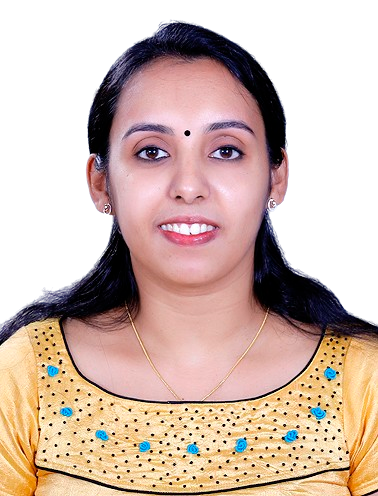
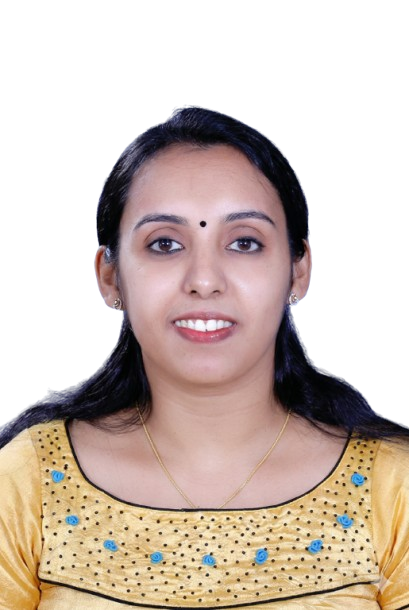
Added homepage UI for IEEE SB MBITS

diff --git a/gallery.html b/gallery.html
@@ -34,54 +34,67 @@
                 Capturing moments of innovation, leadership, and community at IEEE MBITS.
             </p>
             
-            <div class="gallery-grid" style="display: grid; grid-template-columns: repeat(auto-fill, minmax(300px, 1fr)); gap: 1.5rem; padding: 1rem;">
-                <div class="gallery-item brutal-card" style="background: #fff; padding: 0.5rem;">
-                    <div style="aspect-ratio: 1; overflow: hidden; border: 4px solid #000;">
-                        <img src="events/Signal/sps1.heic" alt="Signal 2.0" style="width: 100%; height: 100%; object-fit: cover;" onerror="this.src='https://placehold.co/600x600/ffb1d9/000000?text=Activity'">
-                    </div>
-                </div>
+            <style>
+                .masonry-grid {
+                    columns: 3 300px;
+                    column-gap: 1.5rem;
+                    padding: 1rem;
+                }
+                .gallery-item {
+                    display: inline-block;
+                    width: 100%;
+                    margin-bottom: 1.5rem;
+                    break-inside: avoid;
+                    transition: transform 0.3s ease;
+                }
+                .gallery-item:hover {
+                    transform: scale(1.02) rotate(1deg);
+                    z-index: 10;
+                }
+                .gallery-img-container {
+                    border: 4px solid #000;
+                    background: #fff;
+                    line-height: 0;
+                }
+                .gallery-img-container img {
+                    width: 100%;
+                    height: auto;
+                    display: block;
+                }
+                @media (max-width: 768px) {
+                    .masonry-grid {
+                        columns: 2 200px;
+                    }
+                }
+                @media (max-width: 480px) {
+                    .masonry-grid {
+                        columns: 1;
+                    }
+                }
+            </style>
 
-                <div class="gallery-item brutal-card" style="background: #fff; padding: 0.5rem;">
-                    <div style="aspect-ratio: 1; overflow: hidden; border: 4px solid #000;">
-                        <img src="events/Yess nit Calicut .jpg" alt="IEEE YESS 25" style="width: 100%; height: 100%; object-fit: cover;" onerror="this.src='https://placehold.co/600x600/ccff00/000000?text=Activity'">
-                    </div>
-                </div>
-
-                <div class="gallery-item brutal-card" style="background: #fff; padding: 0.5rem;">
-                    <div style="aspect-ratio: 1; overflow: hidden; border: 4px solid #000;">
-                        <img src="events/SIH.jpg" alt="SIH 2025" style="width: 100%; height: 100%; object-fit: cover;" onerror="this.src='https://placehold.co/600x600/a3c4ff/000000?text=Activity'">
-                    </div>
-                </div>
-
-                <div class="gallery-item brutal-card" style="background: #fff; padding: 0.5rem;">
-                    <div style="aspect-ratio: 1; overflow: hidden; border: 4px solid #000;">
-                        <img src="events/leet.jpg" alt="DSA Training" style="width: 100%; height: 100%; object-fit: cover;" onerror="this.src='https://placehold.co/600x600/ffde59/000000?text=Activity'">
-                    </div>
-                </div>
-
-                <div class="gallery-item brutal-card" style="background: #fff; padding: 0.5rem;">
-                    <div style="aspect-ratio: 1; overflow: hidden; border: 4px solid #000;">
-                        <img src="events/MDC.jpg" alt="MDC" style="width: 100%; height: 100%; object-fit: cover;" onerror="this.src='https://placehold.co/600x450/ff6b35/000000?text=Activity'">
-                    </div>
-                </div>
-
-                <div class="gallery-item brutal-card" style="background: #fff; padding: 0.5rem;">
-                    <div style="aspect-ratio: 1; overflow: hidden; border: 4px solid #000;">
-                        <img src="events/hack.jpg" alt="Hackathon" style="width: 100%; height: 100%; object-fit: cover;" onerror="this.src='https://placehold.co/600x600/e6d5ff/000000?text=Activity'">
-                    </div>
-                </div>
-
-                <div class="gallery-item brutal-card" style="background: #fff; padding: 0.5rem;">
-                    <div style="aspect-ratio: 1; overflow: hidden; border: 4px solid #000;">
-                        <img src="events/kcbm.jpg" alt="KCBM" style="width: 100%; height: 100%; object-fit: cover;" onerror="this.src='https://placehold.co/600x600/ffb1d9/000000?text=Activity'">
-                    </div>
-                </div>
-
-                <div class="gallery-item brutal-card" style="background: #fff; padding: 0.5rem;">
-                    <div style="aspect-ratio: 1; overflow: hidden; border: 4px solid #000;">
-                        <img src="events/wieevent.jpg" alt="WIE Event" style="width: 100%; height: 100%; object-fit: cover;" onerror="this.src='https://placehold.co/600x600/ccff00/000000?text=Activity'">
-                    </div>
-                </div>
+            <div class="masonry-grid">
+                <!-- All 23 images from /gallery folder -->
+                <div class="gallery-item brutal-card"><div class="gallery-img-container"><img src="gallery/1.jpg" alt="1.jpg" loading="eager"></div></div>
+                <div class="gallery-item brutal-card"><div class="gallery-img-container"><img src="gallery/1D8A3893.jpg" alt="1D8A3893.jpg" loading="lazy"></div></div>
+                <div class="gallery-item brutal-card"><div class="gallery-img-container"><img src="gallery/2.jpg" alt="2.jpg" loading="eager"></div></div>
+                <div class="gallery-item brutal-card"><div class="gallery-img-container"><img src="gallery/3.jpg" alt="3.jpg" loading="eager"></div></div>
+                <div class="gallery-item brutal-card"><div class="gallery-img-container"><img src="gallery/4.jpg" alt="4.jpg" loading="eager"></div></div>
+                <div class="gallery-item brutal-card"><div class="gallery-img-container"><img src="gallery/IMG-20250302-WA0109.jpg" alt="IMG-20250302-WA0109.jpg" loading="lazy"></div></div>
+                <div class="gallery-item brutal-card"><div class="gallery-img-container"><img src="gallery/IMG-20250704-WA0089.jpg" alt="IMG-20250704-WA0089.jpg" loading="lazy"></div></div>
+                <div class="gallery-item brutal-card"><div class="gallery-img-container"><img src="gallery/IMG-20250705-WA0062.jpg" alt="IMG-20250705-WA0062.jpg" loading="lazy"></div></div>
+                <div class="gallery-item brutal-card"><div class="gallery-img-container"><img src="gallery/IMG-20250712-WA0111.jpg" alt="IMG-20250712-WA0111.jpg" loading="lazy"></div></div>
+                <div class="gallery-item brutal-card"><div class="gallery-img-container"><img src="gallery/IMG-20250712-WA0117.jpg" alt="IMG-20250712-WA0117.jpg" loading="lazy"></div></div>
+                <div class="gallery-item brutal-card"><div class="gallery-img-container"><img src="gallery/IMG-20250730-WA0151.jpg" alt="IMG-20250730-WA0151.jpg" loading="lazy"></div></div>
+                <div class="gallery-item brutal-card"><div class="gallery-img-container"><img src="gallery/IMG-20250730-WA0153.jpg" alt="IMG-20250730-WA0153.jpg" loading="lazy"></div></div>
+                <div class="gallery-item brutal-card"><div class="gallery-img-container"><img src="gallery/IMG-20250812-WA0145 (1).jpg" alt="IMG-20250812-WA0145 (1).jpg" loading="lazy"></div></div>
+                <div class="gallery-item brutal-card"><div class="gallery-img-container"><img src="gallery/IMG-20260101-WA0121.jpg" alt="IMG-20260101-WA0121.jpg" loading="lazy"></div></div>
+                <div class="gallery-item brutal-card"><div class="gallery-img-container"><img src="gallery/IMG-20260119-WA0017.jpg" alt="IMG-20260119-WA0017.jpg" loading="lazy"></div></div>
+                <div class="gallery-item brutal-card"><div class="gallery-img-container"><img src="gallery/IMG-20260126-WA0360.jpg" alt="IMG-20260126-WA0360.jpg" loading="lazy"></div></div>
+                <div class="gallery-item brutal-card"><div class="gallery-img-container"><img src="gallery/IMG-20260126-WA0362.jpg" alt="IMG-20260126-WA0362.jpg" loading="lazy"></div></div>
+                <div class="gallery-item brutal-card"><div class="gallery-img-container"><img src="gallery/Khm .jpg" alt="Khm .jpg" loading="lazy"></div></div>
+                <div class="gallery-item brutal-card"><div class="gallery-img-container"><img src="gallery/Yess nit Calicut .jpg" alt="Yess nit Calicut .jpg" loading="lazy"></div></div>
+                <div class="gallery-item brutal-card"><div class="gallery-img-container"><img src="gallery/signal.heic" alt="signal.heic" loading="lazy"></div></div>
             </div>
         </div>
     </main>

diff --git a/style.css b/style.css
@@ -682,7 +682,8 @@ h1, h2, h3, h4, h5 { font-family: 'Orbitron', 'Space Grotesk', sans-serif; font-
 /* Team Grid */
 .team-grid {
     display: none;
-    grid-template-columns: repeat(auto-fill, minmax(250px, 1fr));
+    grid-template-columns: repeat(auto-fit, minmax(280px, 1fr));
+    justify-content: center;
     gap: 2rem;
 }
 

diff --git a/execom.html b/execom.html
@@ -103,7 +103,7 @@
             <div class="team-member">
                 <div class="member-photo"><img src="execom/ebin.png" alt="Ebin"></div>
                 <div class="member-info">
-                    <h3>Ebin K Biju</h3>
+                    <h3>Ebin C Biju</h3>
                     <p class="member-role">Technical Coordinator</p>
                 </div>
             </div>